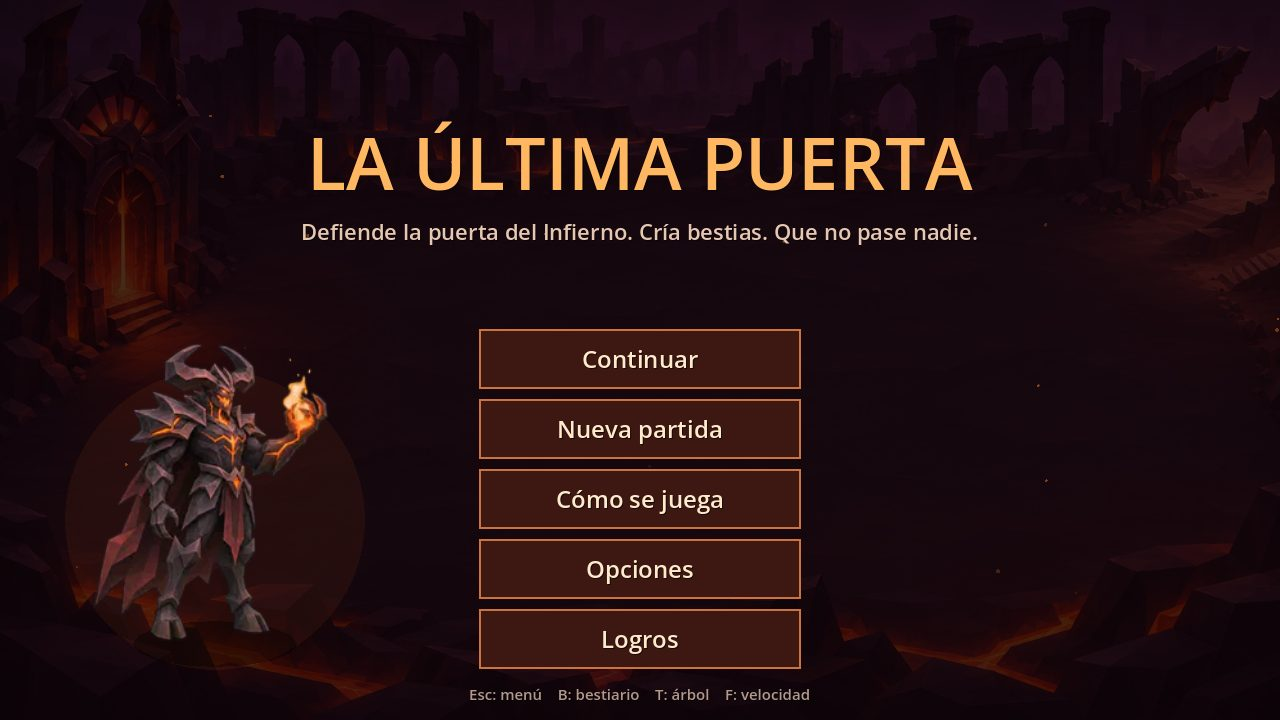
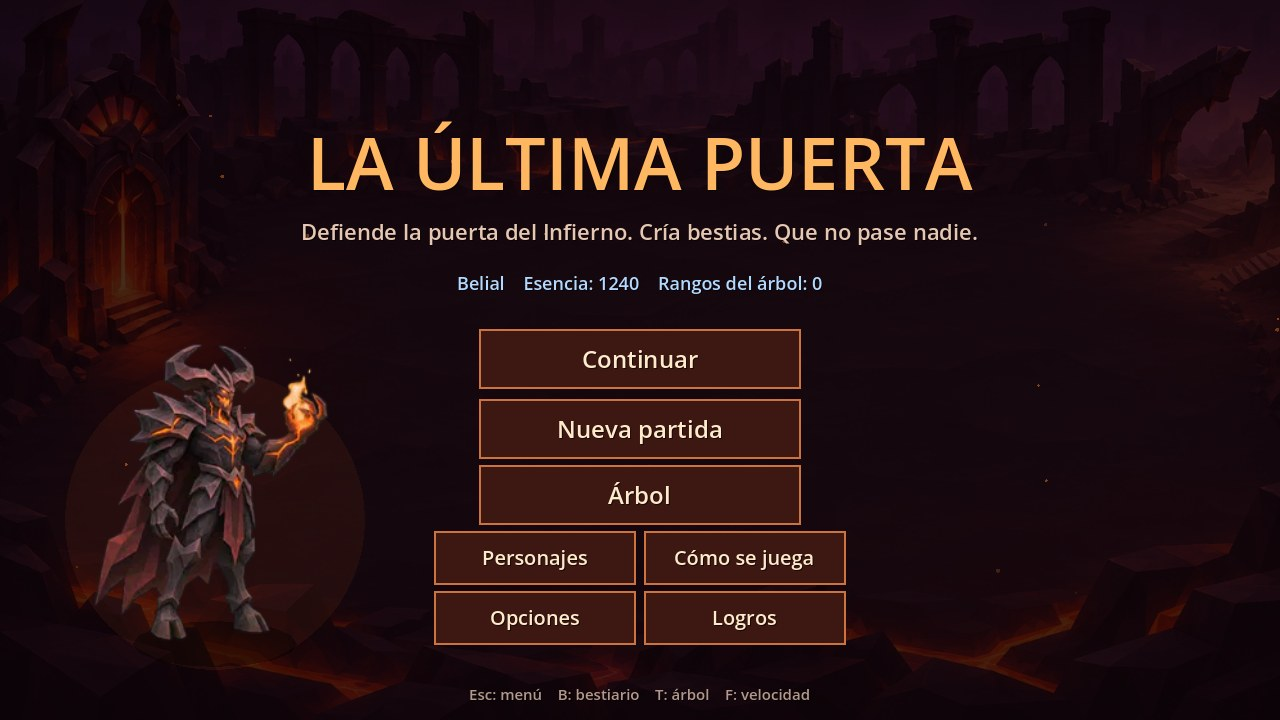
Ritmo y bot: vida de comunes +20%, regla de ahorro más suave; README y CLAUDE.md con el árbol al final y los personajes
Claude-Session: https://claude.ai/code/session_0132EV8PCmS8APN2yeMUX6md

Changed region(s): [[0.3125, 0.6417, 0.6875, 0.9472], [0.3438, 0.3667, 0.625, 0.4278]]

diff --git a/CLAUDE.md b/CLAUDE.md
@@ -13,9 +13,11 @@ Godot 4.7 (probado con 4.7.2) / GDScript, un demonio defiende la puerta del Infi
 - Arena abierta con zonas de retaguardia y vanguardia; oleadas desordenadas por frentes al azar; Brasa (área con retraso, apuntada con el ratón) y Rayo.
 
 ## Decisiones tomadas
-- El árbol (110 nodos, 10 ramas) se paga con **Esencia permanente**, guardada en `user://meta.json` junto con los rangos (`habilidades`) y lo pagado por nodo (`pagado`). Se gana por oleada y por victoria (`balance.json` → `meta`). Las almas son solo de la partida (Sabuesos, Ojos, niveles).
+- El árbol (110 nodos, 10 ramas) se paga con **Esencia permanente**, guardada en el `meta.json` del personaje junto con los rangos (`habilidades`) y lo pagado por nodo (`pagado`).
+- **El árbol se sube al terminar la partida, con las almas que sobran**: `Sim._bank_souls()` (victoria y derrota) convierte cada alma en 1 de esencia (`meta.soul_rate`, sin multiplicar por la Ira) y lo deja en `Sim.banked` para la pantalla final. Hay un extra pequeño por oleada y por ganar (`meta.wave_base/wave_step/victory`). `Sim.tree_shop_open()` manda en `can_skill` y `can_respec`: en modo permanente solo al acabar (victoria/derrota) o entre partidas (`between_runs`, que ponen el menú con `main.open_tree_shop()` y el bot; `start_wave()` lo apaga). Entre oleadas el árbol se mira, no se compra. Sin modo permanente (pruebas antiguas) se sigue comprando con almas en preparación. Costes: `cost_base × meta.cost_scale × (1 + meta.inflation × rangos)`.
+- **Personajes** (solo vista, `scripts/perfiles.gd`): `user://personajes.json` (lista, último usado) y `user://personajes/<id>/{meta.json, partida.txt, bestiario.json}`; las opciones son generales. `main._pfile(nombre)` da la ruta del personaje en uso (nunca escribir rutas `user://` a mano), `main._open_profile()` cambia de personaje (vacía todo el estado y carga el suyo) y `Perfiles._migrate_legacy()` convierte los archivos antiguos en el primero. Las pruebas usan una carpeta temporal con la meta de `Engine` `perfiles_root` (no tocan `user://`). El nombre se escribe en un `LineEdit` (`main.name_edit`) que solo se ve en el panel `nuevo` del menú.
 - Tras cada oleada se elige 1 de 3 (`draft.pool`): bestias gratis o recompensas. Añadir un pack nuevo = entrada en `balance.json` (con `spot`) + `_ai_*` en `sim.gd` (y su caso en `_update_creature`) + sprite en `art/sprites/` **o** silueta por código en `Art.draw_creature` (pack 2: gárgola, enjambre, garfio) + línea en el pool + texto en `FORM_INFO` de `main.gd`. Mantener los pesos de bestias del pool bajos (1): cada bestia más en el pool sube mucho la tasa de victorias.
-- Asedios en `waves.json` → `sieges` (`unlock` = id del asedio que hay que ganar). `Sim.set_siege(i, ira)` antes de `reset()`. Ira multiplica vida/daño enemigos y esencia (`balance.json` → `wrath`). Lo ganado se guarda en `user://meta.json` → `asedios` (id → mayor Ira ganada).
+- Asedios en `waves.json` → `sieges` (`unlock` = id del asedio que hay que ganar). `Sim.set_siege(i, ira)` antes de `reset()`. Ira multiplica vida/daño enemigos y el extra de esencia (`balance.json` → `wrath`). Lo ganado se guarda en el `meta.json` del personaje → `asedios` (id → mayor Ira ganada).
 - Enemigos con banderas de datos: `ignore_block`, `explode`, `burn_immune`, `unstoppable`, `shield_cd`, `judge_cd`, `summon_at`/`summon`, `tint`/`sprite`/`scale` (algunos reutilizan sprites con tinte; Zapador, Gran Inquisidor, Gran Maestre, Ariete, Sacerdotisa y Purificador ya tienen sprite propio de Flow). Fondo por asedio: `background` en `waves.json` → `Art.background(archivo)`. Tamaño de cada sprite: `Art.SPRITE_H` (clave entera si existe, si no lo de antes del primer «_», ver `Art.size_key`).
 - Los modos permanente y elección están desactivados por defecto en `Sim` (`meta_mode`, `draft_enabled`) y los activa `main.gd`, salvo en las pruebas (`Engine` meta `sin_persistencia`).
 - Élites con habilidad propia y variantes de aspecto de los enemigos comunes; los diseños elegidos del arte están en `art/LEEME*.md`.
@@ -31,7 +33,7 @@ Godot 4.7 (probado con 4.7.2) / GDScript, un demonio defiende la puerta del Infi
   - `excl: <id>` = camino excluyente (los dos nodos se apuntan entre sí). `skill_state()` devuelve además `"excluded"` y `"sealed"`.
   - `branches[].unlock` = asedio que hay que ganar (`Sim.won`, que la vista rellena con `siege_wins`). Solo sella en `meta_mode`.
   - Dones: `set.need.<familia>` (suma al mínimo de 2), `set.power.<familia>`, `draft.family.<familia>`, `draft.kind.<bestia>`, `draft.rarity.<rareza>`. Las resonancias se suman al final de `_fx_totals()` para poder leer esas claves.
-  - `Sim.skill_paid` apunta lo pagado por nodo; `respec(rama)` devuelve `meta.respec_refund` de eso y solo vale entre partidas. `load_tree(guardado, pagado)` migra: lo que ya no existe (`legacy` en el JSON) se devuelve entero. No renombrar ids sin pasar por ahí.
+  - `Sim.skill_paid` apunta lo pagado por nodo; `respec(rama)` devuelve `meta.respec_refund` de eso y solo vale con la tienda abierta (`tree_shop_open()`). `load_tree(guardado, pagado)` migra: lo que ya no existe (`legacy` en el JSON) se devuelve entero. No renombrar ids sin pasar por ahí.
   - Vista (`main.gd`): `tree_tab` (pestaña), `_build_tree_pos()` coloca cada rama en dos columnas + una lateral (`side`), `_draw_tree_panel()` es el detalle fijo. Para un nodo nuevo basta el JSON; comprobar con `tools/shots.tscn -- <dir> arbol` y la prueba de solapes de `test_ui_smoke`.
   - Bot: `tests/bot.gd` → `STYLES` (lista de deseos, ramas, piedras y caminos que acepta). `tools/balance.tscn` repite la carrera con cada estilo y compara árboles.
 - Logros (`data/logros.json` + `scripts/logros.gd`) y música procedural (`scripts/music.gd`, `AudioStreamGenerator` en modo stream, buses `Musica`/`Efectos`) son de la vista.
@@ -39,7 +41,7 @@ Godot 4.7 (probado con 4.7.2) / GDScript, un demonio defiende la puerta del Infi
 ## Pruebas y herramientas
 - `godot --headless --editor --import --path .` (una vez) y `godot --headless --path . res://tests/run_scene.tscn` → `FIN_SUITE fallos=0`. (`--script res://tests/run_tests.gd` no funciona.)
 - `tests/bot.gd`: bot torpe (reacción lenta, puntería con error, draft mediano, augurio al azar el 60%). Objetivo de equilibrio: ~40-60% en la primera partida; hoy ~50% con variedad. `BAL_CLIMB=1` simula una carrera subiendo Ira tras cada victoria, una vez por estilo de compra (`BAL_STYLE=mixto,fuego,manada`; medias 59 / 57 / 60%; deben seguir parecidas y con árboles distintos); `BAL_SIEGE=3` mide La Grieta (0-2: asedios) (oleadas superadas con `BAL_ESS`).
-- Capturas útiles: `tools/shots.tscn -- <dir> demonio|animacion|intro|augurio|draft|asedios|partida|victoria|derrota` (`partida` juega una partida entera con el bot a través de la vista).
+- Capturas útiles: `tools/shots.tscn -- <dir> demonio|animacion|intro|augurio|draft|asedios|partida|victoria|derrota|arbol|piedras|personajes` (`partida` juega una partida entera con el bot a través de la vista).
 - `tools/balance.tscn` (informe de equilibrio), `tools/debug_run.tscn` (línea de tiempo de una partida), `tools/shots.tscn` (capturas con xvfb-run).
 - `*.uid` e `*.import` están en `.gitignore` para no chocar con la copia local del usuario.
 
@@ -47,5 +49,5 @@ Godot 4.7 (probado con 4.7.2) / GDScript, un demonio defiende la puerta del Infi
 - https://infrakuervo.github.io/la_ultima_puerta/ — republicar con `tools/publish_web.sh` tras cada cambio importante. `export_presets.cfg` sí se versiona.
 
 ## Pendiente
-- Ver ROADMAP.md (secciones «Árbol 2», «Noche 2» y «Rejugabilidad») para lo hecho y lo siguiente.
+- Ver ROADMAP.md (secciones «Árbol al final y personajes», «Árbol 2», «Noche 2» y «Rejugabilidad») para lo hecho y lo siguiente.
 - Más packs de bestias y asedios (el patrón está arriba).

diff --git a/README.md b/README.md
@@ -57,7 +57,7 @@ Sale con 0 si todo pasa. También se puede abrir y ejecutar `tests/run_scene.tsc
 - `scripts/main.gd`: vista, ratón y avisos. `scripts/art.gd`: sprites y siluetas. `scripts/sound_bank.gd`: sonidos procedurales (con capas para élites y bestias nuevas).
 - `scripts/juice.gd`: partículas, números de daño, destello al golpear, temblor suave y pausa breve en los golpes grandes. `scripts/menu.gd`: menú, opciones y tutorial.
 - `data/balance.json`: costes, vidas, daños, tiempos, casillas. `data/waves.json`: oleadas, rutas y textos. Todo se edita sin tocar código.
-- `user://bestiario.json`: bestiario sencillo (formas vistas y registro de Tizón).
+- `scripts/perfiles.gd`: personajes (una carpeta por personaje en `user://personajes/`, con su progreso, su bestiario y su partida a medias).
 
 ## Qué hay (orden de URI-111)
 
@@ -115,7 +115,15 @@ Seis unidades con habilidad propia, en `data/balance.json` (campo `elite`) y `da
 
 ## Progreso permanente
 
-El árbol se paga con **Esencia**, que se conserva entre partidas (`user://meta.json`, junto con los rangos comprados). Se gana al superar cada oleada (10 + 5×n) y +60 por victoria (`data/balance.json` → `meta`). Se compra entre oleadas y en las pantallas de victoria o derrota. Las almas quedan solo para Sabuesos, Ojos y niveles de bestia.
+**El árbol se sube al terminar la partida, con las almas que te queden.** Al ganar o perder, cada alma que no gastaste se convierte en 1 de **Esencia** (la pantalla final lo dice: «Te quedan 85 almas: +85 de esencia para el árbol») y desde ahí se abre el árbol. También se puede gastar la esencia ahorrada desde el menú (**Árbol**), entre partidas. Entre oleadas el árbol se abre con **T** solo para mirar.
+
+Guardar almas es una decisión: más Sabuesos y niveles ahora, o más árbol después. Aparte hay un extra pequeño de esencia por oleada superada (4 + 2×n) y por ganar (+40), que crece con la Ira; las almas guardadas no se multiplican. Los costes del árbol están en la escala de las almas (`data/balance.json` → `meta.cost_scale` 1,8) y cada rango encarece los demás un 4,5%.
+
+## Personajes
+
+Al abrir el juego por primera vez se crea un **personaje**: tu demonio, con el nombre que escribas («Demonio» si lo dejas vacío). Hay tres ranuras (menú → **Personajes**): crear, elegir y borrar con confirmación. Cada personaje guarda lo suyo —esencia y árbol, asedios ganados e Ira, récords de La Grieta y del reto semanal, logros, estadísticas, historial, bestiario y la partida a medias— en `user://personajes/<id>/` (`meta.json`, `partida.txt`, `bestiario.json`); la lista y el último usado están en `user://personajes.json`. Las opciones (`user://opciones.json`) son generales. El nombre sale en la cabecera, en el menú y en la pantalla final.
+
+Si existen los archivos de antes (`user://meta.json`, `partida.txt`, `bestiario.json`), al abrir se convierten en el primer personaje sin perder nada. En la web todo esto vive en IndexedDB.
 
 ## Árbol 2: builds y decisiones
 
@@ -124,7 +132,7 @@ El árbol ya no es solo «+X%». Se abre con **T** y tiene una pestaña por rama
 - **Piedras angulares** (marco dorado, una por rama, rango único): cambian una regla y piden algo a cambio. Tierra quemada (la Brasa deja el suelo ardiendo, pero tarda el doble), Arco voltaico (el Rayo salta sin límite, pero solo a los que arden), Puerta de espinas, Tizón inmortal, Camada, Estallido de ceniza, Tormenta errante, Mirada fija, Pacto del Abismo y Hoguera profana.
 - **Caminos excluyentes**: al final de cada rama se elige uno de dos nodos y el otro se cierra (sale tachado, «camino cerrado»). Cometa o Lluvia de ascuas, Rayo verdugo o Chispa incesante, Baluarte o Mercader de almas, Horda o Alfa…
 - **Nodos que hablan con los dones** (rótulo morado): Corazón del Infierno y Pacto de Avaricia despiertan su resonancia con un solo don; Sangre de Jauría y Piedra del Bastión la hacen más fuerte; Heraldo de la Tempestad, Llamada del Abismo y Lengua de profeta cambian lo que sale en el draft.
-- **Reasignar**: en el panel del árbol, «Reasignar esta rama» o «Reasignar todo» (dos clics) devuelve el 75% de la esencia pagada de verdad (cada compra se apunta con su inflación en `meta.json` → `pagado`). Solo entre partidas: antes de la primera oleada o al acabar.
+- **Reasignar**: en el panel del árbol, «Reasignar esta rama» o «Reasignar todo» (dos clics) devuelve el 75% de la esencia pagada de verdad (cada compra se apunta con su inflación en `meta.json` → `pagado`). Solo entre partidas: desde el menú o al acabar.
 - **Ramas que se ganan**: **Abismo** (Gárgola, Enjambre y Garfio) se abre al ganar el segundo asedio; **Inquisición** (santuarios, escudos, Juicio, encargos) al ganar el tercero. Antes se ven selladas con el requisito escrito.
 - **Partidas guardadas**: los ocho remates antiguos (Maestría del fuego, Tormenta, Cría barata, Furia de la jauría, Sabueso alfa, Infierno interior, Tormenta de cobre, Mirada del Abismo) ya no existen; al abrir el juego su esencia se devuelve entera y el menú lo avisa.
 
